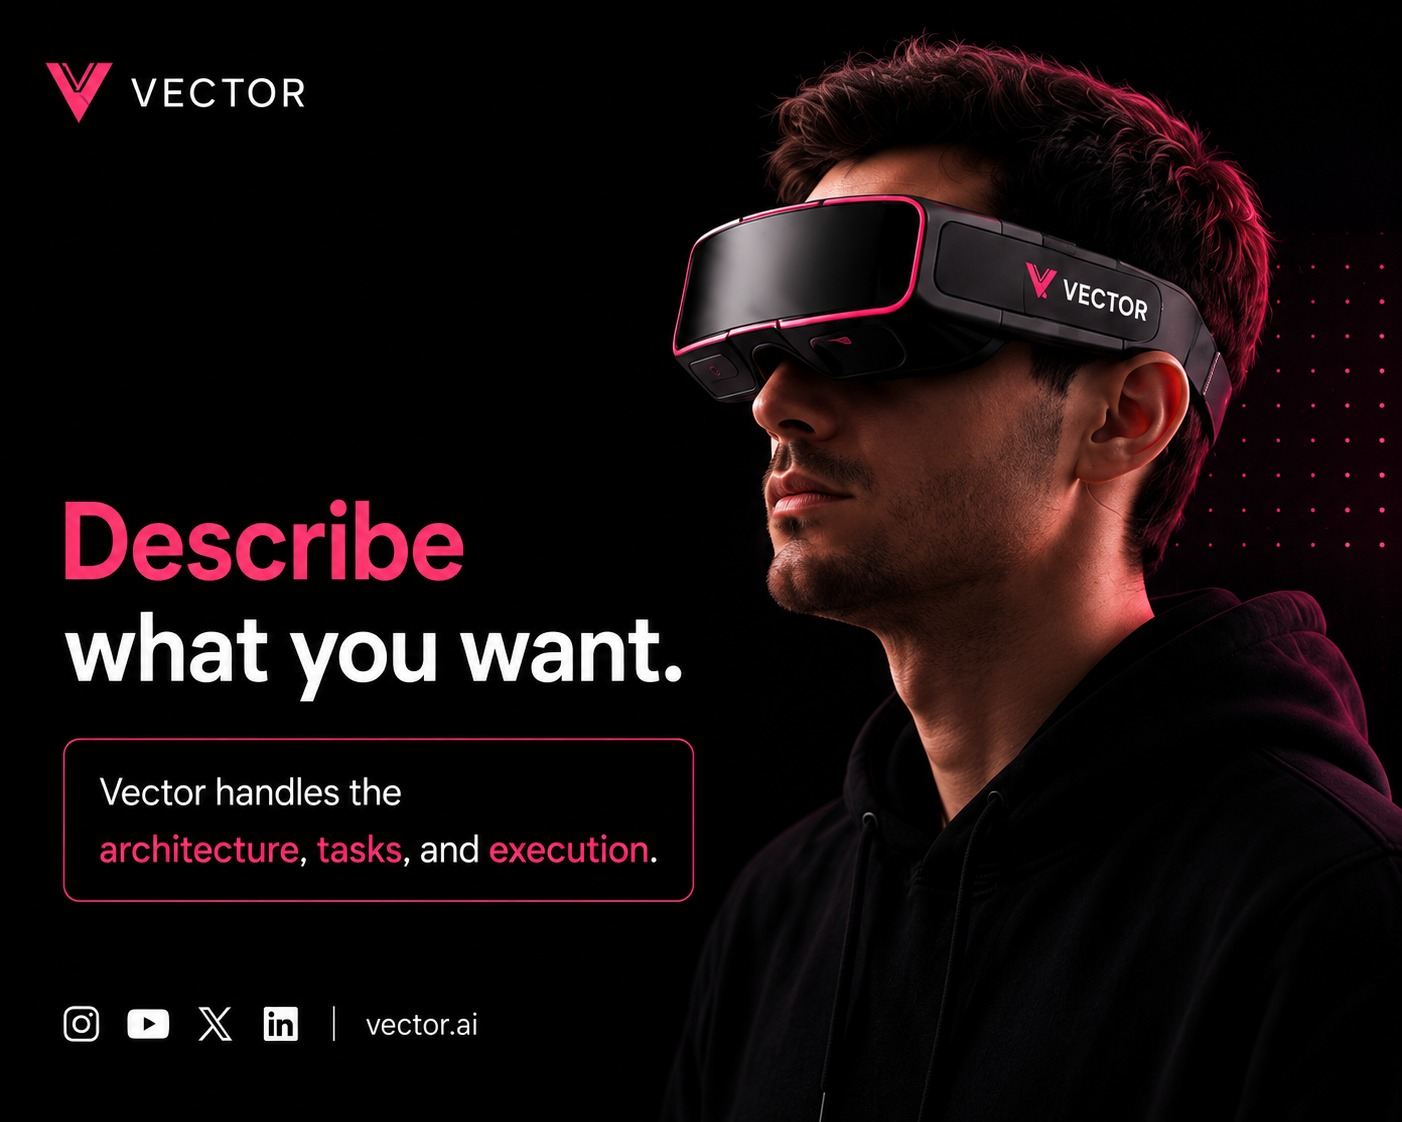
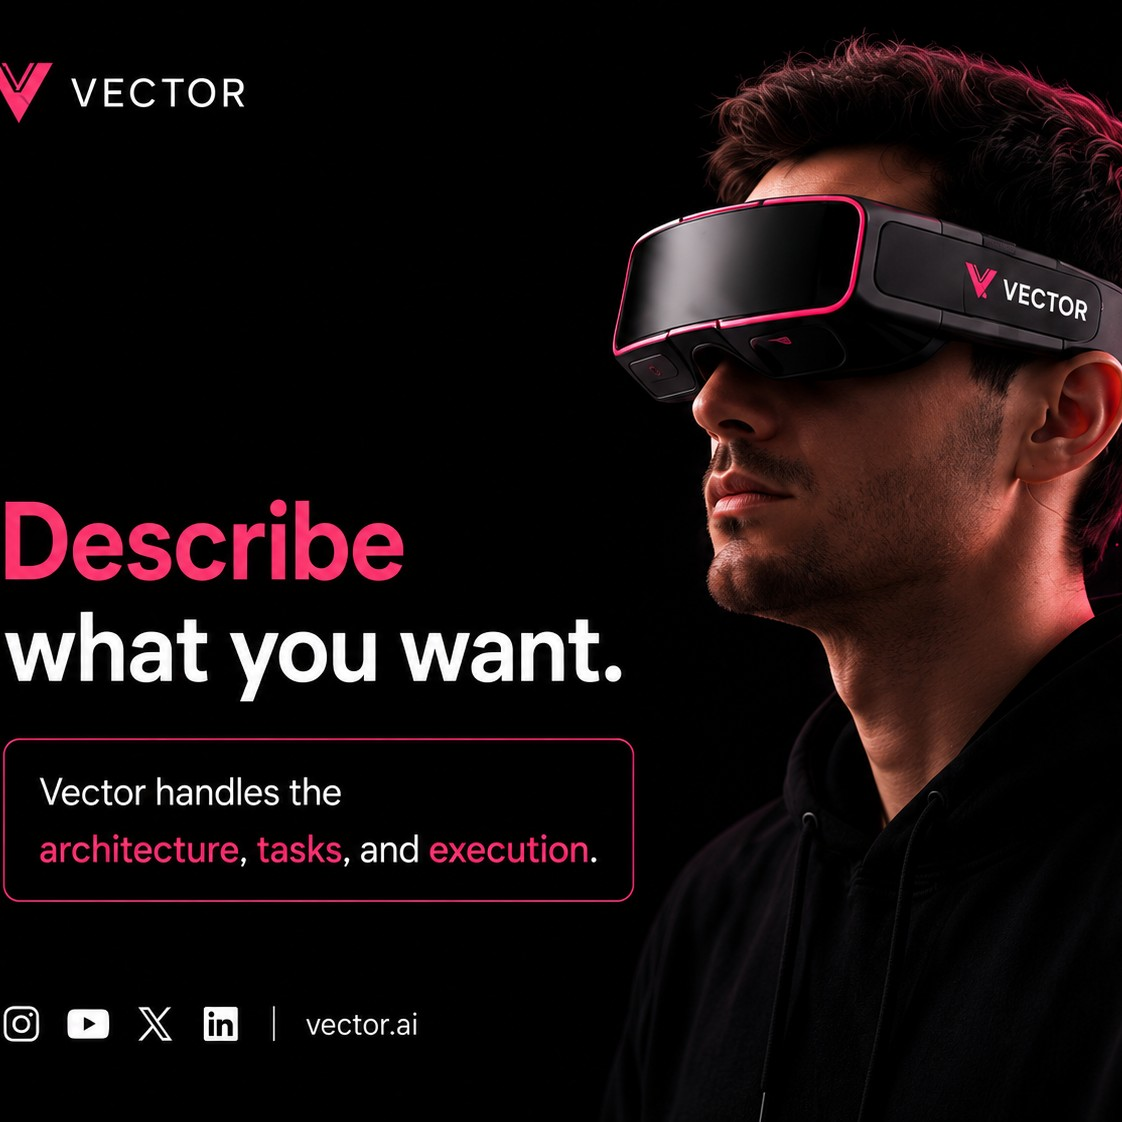
Crop Vector Concept A slides to square, matching Planova's format
Concept A's slides were a consistent landscape ratio (~1402x1122),
so unlike Planova there was no mismatched set to reconcile - just one
crop rule applied uniformly across all 9: crop a 1122-wide window
starting 60px from the left edge. That keeps the "VECTOR" logo and
headline text (which sit at the same x-position on every slide) fully
intact and in the same spot on every square, at the cost of trimming
some width off whatever hero visual sits on the right (a shell edge,
an arrow tip, a hand's fingers, etc.) - all still read fine.

Updated the carousel viewport's aspect-ratio from 1402/1122 to 1/1.
Planova and Concept A now both use square frames; Concept B is left
as a tall portrait per an earlier explicit "don't touch" request.

diff --git a/work/social-carousels.html b/work/social-carousels.html
@@ -142,7 +142,7 @@
       <p class="sc-project__text">A pink-on-black, photographic direction for Vector, an AI build agent. Bold headline slides alternate with product shots and lifestyle photography, tied together with one accent colour and a consistent V mark.</p>
     </div>
     <div class="carousel reveal">
-      <div class="carousel__viewport" style="aspect-ratio:1402/1122">
+      <div class="carousel__viewport" style="aspect-ratio:1/1">
         <div class="carousel__track">
           <img src="../assets/work/social-carousels/vector-a-1.jpg" alt="Vector concept A carousel slide 1 of 9" loading="lazy">
           <img src="../assets/work/social-carousels/vector-a-2.jpg" alt="Vector concept A carousel slide 2 of 9" loading="lazy">
